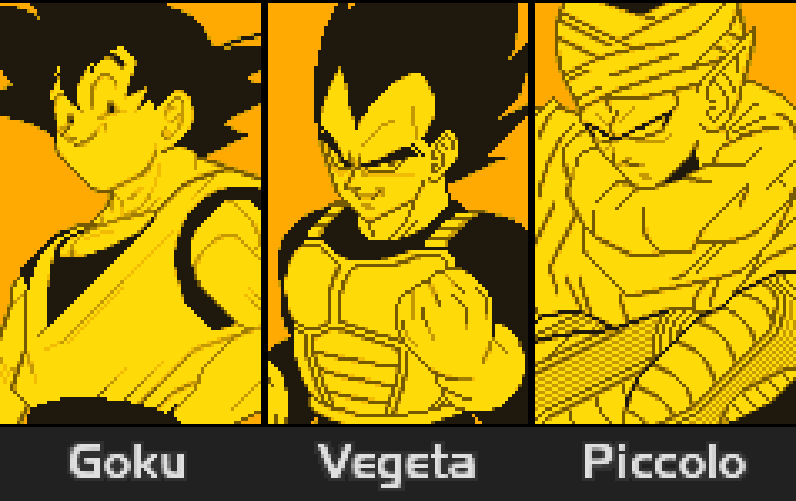
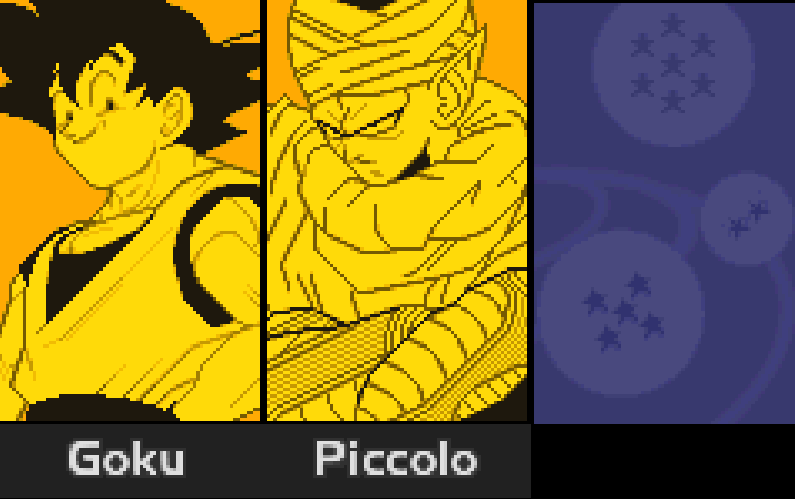
milieu de la 2e tier list

diff --git a/soluce/solution_z.html b/soluce/solution_z.html
@@ -315,42 +315,39 @@
 
     <h3 id="teams1">Liste d'équipes n°1: Avant le Mode Histoire</h3>
 
-    <p id="team1">La toute première équipe est composée de Goku, Vegeta et Piccolo.</p>
+    <p id="team1">La toute première équipe est composée de Goku et Piccolo.</p>
     <p>La raison du choix de l'équipe se repose sur plusieurs choses:</p>
     <li>Ce sont des personnages simples à jouer avec des attaques spéciales simples à comprendre et assez puissantes pour le début du jeu.</li>
     <li>Ce sont des personnages assez forts pour le tout début du jeu </li>
     <li>Chacun coûte 3 DP ce qui permet de respecter la règle des 7 DP maximum</li>
-    <li>Ils peuvent faire une attaque en trio qui est dévastateur pour 200 de ki</li>
+    <li>Ils peuvent faire une attaque en duo qui est dévastateur pour 200 de ki</li>
 
     <p>La stratégie a adopé avec cette équipe est la suivant:</p>
     <p>Jouez Goku pour commencer, ses attaques sont simples, puissantes et couvrent la longue portée avec le Kamehameha, la moyenne portée avec le Dragon Shot et la courte portée via le corps-à-corps.
       Egalement sa compétence "Kaioken" permet de frapper plus fort, ce qui permet de faire des dégâts considérables à des personnages à 4 ou 5 DP.
-    </p>
-    <p>Vous pourrez ensuite jouez Vegeta quand l'adversaire sera assez affaibli, Vegeta sera plus dans la finition et le combat rapproché via ses coups spéciaux comme son attaque spéciale haute qui est parfaite au corps-à-corps.
-      Son Garlick Gun et son attaque spéciale basse sont biens respectivement pour affaiblir les PV de l'adversaire et empêcher l'adversaire de trop bouger. Sa compétence "Conscience rivale" est plutôt intéressante dans le cas de figure où il est un personnage à 3 Dp seulement,
-      ce qui permet que dans les niveaux entrent 6 et 8, vous pourrez l'enclencher et frapper plus fort.
     </p>
     <p>Enfin Piccolo qui sera là en tant que "tank" grâce à sa régénération, sa compétence qui est vraiment excellente car il peut taper l'adversaire correctement avec ses spéciaux qui sont tous biens,
        pour la longue portée via le Makankosappo, la courte portée avec le Gekiretsukoudan et la moyenne portée qui en plus est à tête chercheuse, le Makankuuhouidan.
     </p>
       
     <p>En règle générale, vous pourrez jouer normalement, sans avoir à adopter de stratégie, mais lorsque l'adversaire en face sera trop puissant, 
-      faites en sorte de garder vos 3 personnages, puis de l'affaiblir à environ 60% de sa vie, grâce à du corps-à-corps en utilisant Goku ou Vegeta, puis de lui envoyer une attaque en trio,
+      faites en sorte de garder vos 2 personnages, puis de l'affaiblir à environ 60% de sa vie, grâce à du corps-à-corps en utilisant Goku ou Piccolo, puis de lui envoyer une attaque en duo,
       ce qui permettra de compenser la différence de puissance.
     </p>
 
     <div class="images-cote-a-cote">
         <figure>
           <img src="../image/soluce/soluce_z/team1.png" alt="Equipe n°1" style="width: 650px;">
-          <figcaption><strong>Equipe 1:Goku, Vegeta et Piccolo</strong></figcaption>
+          <figcaption><strong>Equipe 1:Goku et Piccolo</strong></figcaption>
         </figure>
     </div>
+    
 
     <br><p id="team2">L'équipe n°2 se compose des personnages suivants: Gotenks et C-18</p>
     <p>Les raisons pour cette équipe sont :</p>
-    <li>L'équipe est composé d'un personnage puissant et assez simple à jouer et d'un personnage un peu plus complexe à utiliser.</li>
+    <li>L'équipe est composé d'un personnage puissant et d'un personnage utilitaire et complet tous deux assez simples à jouer.</li>
     <li>Gotenks coûte 5 DP ce qui est assez fort comparé à des personnages comme Goku et Vegeta, ce qui permet de frapper et d'être plus forts que pas mal de personnages du début. </li>
-    <li>C-18 coûte 2 DP mais qui est assez forte pour faire des dégâts et rester durant le combat.</li>
+    <li>Krilin coûte 2 DP mais qui est assez fort pour faire des dégâts et gêné l'adversaire.</li>
     <li>Egalement la combinaison des deux permet de respecter la règle des 7 DP maximum.</li>
 
     <p>Pour la stratégie a adoptée, passons en revue les qualités des personnages et voyons ce que l'on peut faire avec :</p>
@@ -359,21 +356,21 @@
       , son beignet galactique est une charge vers l'adversaire, ce qui brise la garde et fait des dégâts intéressants et enfin son Fantôme Kamikaze qui couvre la moyenne et courte distance, fait de très bons dégâts et le fantôme peut poursuivre l'adversaire.
       Egalement il peut devenir Super Saiyan pour augmenter son attaque, ce qui permet de frapper bien plus fort ses ennemis.
     </p>
-    <p>C-18 est selon moi le personnage le plus fort à 2 DP lorsque que l'on commence le jeu, elle a des attaques spéciales intéressantes et surtout une excellente capacité qui permet de garder son énergie à 100 durant une bonne durée du combat,
-      ce qui permet d'enchaîner les attaques spéciales sans faire trop attention à son énergie. Pour ses attaques spéciales, elle sera spécialisée dans le combat rapproché via son attaque spéciale standart, qui malgré sa faible portée frappe fort.
-      Elle sera aussi forte pour gênée l'adversaire avec ses deux attaques spéciales hautes et basses qui malgré leurs dégâts moyens, empêcheront l'adversaire de se rapprocher
-      , d'ailleurs ces attaques spéciales sont des excellents moyens pour gérer la longue portée quand l'adversaire est en dessous ou au dessus, ce qui permet de le garder loin.
+    <p>Krilin sera le personnage entre la force et la technique, il est un peu comme Gotenks au niveau de ses qualités:
+      <br>Il a des attaques spéciales qui peuvent faire plusieurs choses intéressantes et couvrent toutes les portées: Son Kamehameha couvre la longue portée et fait des dégâts corrects
+      , son Kienzan est une sérié de disques d'énergie balancée sur l'adversaire, ce qui met la pression, fait des dégâts intéressants et couvre une très bonne portée vers le haut et légèrement sur les côtés et enfin son Sokidan qui couvre la moyenne et courte distance, fait de bons dégâts et la bouel d'énergie peut poursuivre l'adversaire, à l'instar du fantôme de Gotenks.
+      Egalement il peut également activé sa compétence "Véritable Pouvoir" pour augmenter son attaque, ce qui permet de frapper bien plus fort ses ennemis.
     </p>
       
     <p>Pour cette équipe, la stratégie sera bien plus tournée autour de Gotenks, en début de partie, essayez de jouer aggressif en utilisant la puissance de Gotenks jusqu'à que la plupart des ennemis tombent.
       Si Gotenks ne tape pas suffisamment fort, transformez le en Super Saiyan, puis n'hésitez pas à user du Fantôme Kamikaze qui est vraiment redoutable.
-      Pour que C-18 soit utilisée efficacement, chargez avec Gotenks votre ki à 200, puis échanger avec C-18, mettez un coup envoyant l'ennemi plus loin. Après avoir activée votre compétence, 
-      vous pouvez enchaîner les spéciaux ou même les attaques énergétiques afin de briser la garde de l'ennemi et de simplement le vaincre sur la durée.
+      Pour Krilin, on partira sur la même base que Piccolo, seulement ne soyez pas trop agressif et utilisez le Kienzan plus souvent que le Sokidan, cela fera plus de dégâts et pourra faire reculer l'adversaire.
+      Autrement avec Krilin, le but sera de temporiser et de mettre des dégâts résiduels sur l'ennemi en attendant de trouver le bon moyen de remettre Gotenks, ou bien de simplement finir le travail si Gotenks est KO.
     </p>
     <div class="images-cote-a-cote">
         <figure>
           <img src="../image/soluce/soluce_z/team2.png" alt="Equipe n°2" style="width: 650px;">
-          <figcaption><strong>Equipe 2:Gotenks et C-18</strong></figcaption>
+          <figcaption><strong>Equipe 2:Gotenks et Krilin</strong></figcaption>
         </figure>
     </div>
 
@@ -503,7 +500,36 @@
     </div>
 
 
+    <br><p id="team5.5">L'équipe suivante se compose des personnages suivants: Gotenks et C-18</p>
+    <p>Les raisons pour cette équipe sont :</p>
+    <li>L'équipe est composé d'un personnage puissant et assez simple à jouer et d'un personnage un peu plus complexe à utiliser.</li>
+    <li>Gotenks coûte 5 DP ce qui est assez fort comparé à des personnages comme Goku et Vegeta, ce qui permet de frapper et d'être plus forts que pas mal de personnages du début. </li>
+    <li>C-18 coûte 2 DP mais qui est assez forte pour faire des dégâts et rester durant le combat.</li>
+    <li>Egalement la combinaison des deux permet de respecter la règle des 7 DP maximum.</li>
 
+    <p>Pour la stratégie a adoptée, passons en revue les qualités des personnages et voyons ce que l'on peut faire avec :</p>
+    <p>Gotenks sera la force de frappe majeure de l'équipe, il a un arsenal parfait pour affronter les autres personnages:
+      <br>Il a des attaques spéciales qui peuvent faire plusieurs choses intéressantes et couvrent toutes les portées: Son Canon V couvre la longue portée et fait d'excellents dégâts
+      , son beignet galactique est une charge vers l'adversaire, ce qui brise la garde et fait des dégâts intéressants et enfin son Fantôme Kamikaze qui couvre la moyenne et courte distance, fait de très bons dégâts et le fantôme peut poursuivre l'adversaire.
+      Egalement il peut devenir Super Saiyan pour augmenter son attaque, ce qui permet de frapper bien plus fort ses ennemis.
+    </p>
+    <p>C-18 est selon moi le personnage le plus fort à 2 DP lorsque que l'on commence le jeu, elle a des attaques spéciales intéressantes et surtout une excellente capacité qui permet de garder son énergie à 100 durant une bonne durée du combat,
+      ce qui permet d'enchaîner les attaques spéciales sans faire trop attention à son énergie. Pour ses attaques spéciales, elle sera spécialisée dans le combat rapproché via son attaque spéciale standart, qui malgré sa faible portée frappe fort.
+      Elle sera aussi forte pour gênée l'adversaire avec ses deux attaques spéciales hautes et basses qui malgré leurs dégâts moyens, empêcheront l'adversaire de se rapprocher
+      , d'ailleurs ces attaques spéciales sont des excellents moyens pour gérer la longue portée quand l'adversaire est en dessous ou au dessus, ce qui permet de le garder loin.
+    </p>
+      
+    <p>Pour cette équipe, la stratégie sera bien plus tournée autour de Gotenks, en début de partie, essayez de jouer aggressif en utilisant la puissance de Gotenks jusqu'à que la plupart des ennemis tombent.
+      Si Gotenks ne tape pas suffisamment fort, transformez le en Super Saiyan, puis n'hésitez pas à user du Fantôme Kamikaze qui est vraiment redoutable.
+      Pour que C-18 soit utilisée efficacement, chargez avec Gotenks votre ki à 200, puis échanger avec C-18, mettez un coup envoyant l'ennemi plus loin. Après avoir activée votre compétence, 
+      vous pouvez enchaîner les spéciaux ou même les attaques énergétiques afin de briser la garde de l'ennemi et de simplement le vaincre sur la durée.
+    </p>
+    <div class="images-cote-a-cote">
+        <figure>
+          <img src="../image/soluce/soluce_z/team2.png" alt="Equipe n°2" style="width: 650px;">
+          <figcaption><strong>Equipe 5.5:Gotenks et C-18</strong></figcaption>
+        </figure>
+    </div>
 
 
     <br><p id="team6">On continue avec l'équipe n°6 qui est basée sur Metal Cooler mais qui aura deux variantes:</p>

diff --git a/soluce/solution_max.html b/soluce/solution_max.html
@@ -283,6 +283,7 @@
       <div style="margin-left: 20px;">
         <a href="#teams2">• Liste d'équipes n°2: Les Equipes pour 9 DP</a><!--(en sachant que c'est le début du jeu)Mettre la version au début et en fin de jeu-->
             <div style="margin-left: 20px;">
+              <a href="#team2-0">• Equipe n°0</a>
               <a href="#team2-1">• Equipe n°1</a>
               <a href="#team2-2">• Equipe n°2</a>
               <a href="#team2-3">• Equipe n°3</a>
@@ -695,6 +696,43 @@
 
 
     <h3 id="teams2">Liste d'équipes n°2: Les Equipes pour 9 DP</h3>
+
+    <br><p id="team2-0">Cette équipe est la plus simpliste à faire mais elle est efficace, elle est composée de Goku, Vegeta et Piccolo.</p>
+    <p>La raison du choix de l'équipe se repose sur plusieurs choses:</p>
+    <li>Ce sont des personnages simples à jouer avec des attaques spéciales simples à comprendre et assez puissantes pour le début du jeu.</li>
+    <li>Ce sont des personnages assez forts pour le tout début du jeu </li>
+    <li>Chacun coûte 3 DP ce qui permet de respecter la règle des 7 DP maximum</li>
+    <li>Ils peuvent faire une attaque en trio qui est dévastateur pour 200 de ki</li>
+
+    <p>La stratégie a adoptée avec cette équipe est la suivant:</p>
+    <p>Jouez Goku pour commencer, ses attaques sont simples, puissantes et couvrent la longue portée avec le Kamehameha, la moyenne portée avec le Dragon Shot et la courte portée via le corps-à-corps.
+      Egalement sa compétence "Kaioken" permet de frapper plus fort, ce qui permet de faire des dégâts considérables à des personnages à 4 ou 5 DP.
+    </p>
+    <p>Vous pourrez ensuite jouez Vegeta quand l'adversaire sera assez affaibli, Vegeta sera plus dans la finition et le combat rapproché via ses coups spéciaux comme son attaque spéciale haute qui est parfaite au corps-à-corps.
+      Son Garlick Gun et son attaque spéciale basse sont biens respectivement pour affaiblir les PV de l'adversaire et empêcher l'adversaire de trop bouger. Sa compétence "Conscience rivale" est plutôt intéressante dans le cas de figure où il est un personnage à 3 Dp seulement,
+      ce qui permet que dans les niveaux entrent 6 et 8, vous pourrez l'enclencher et frapper plus fort.
+    </p>
+    <p>Enfin Piccolo qui sera là en tant que "tank" grâce à sa régénération, sa compétence qui est vraiment excellente car il peut taper l'adversaire correctement avec ses spéciaux qui sont tous biens,
+       pour la longue portée via le Makankosappo, la courte portée avec le Gekiretsukoudan et la moyenne portée qui en plus est à tête chercheuse, le Makankuuhouidan.
+    </p>
+      
+    <p>En règle générale, vous pourrez jouer normalement, sans avoir à adopter de stratégie, mais lorsque l'adversaire en face sera trop puissant, 
+      faites en sorte de garder vos 3 personnages, puis de l'affaiblir à environ 60% de sa vie, grâce à du corps-à-corps en utilisant Goku ou Vegeta, puis de lui envoyer une attaque en trio,
+      ce qui permettra de compenser la différence de puissance.
+    </p>
+
+    <br><h4>Difficulté: 
+      <li>10/20</li>
+      <li>Passe le niveau Facile et Difficile au minimum sans trop de difficultés</li>
+      <li>Pourra trouver des soucis au milieu du niveau Mania</li> 
+    </h4>
+
+    <div class="images-cote-a-cote">
+        <figure>
+          <img src="../image/soluce/soluce_max/team2/team0.png" alt="Equipe n°1" style="width: 650px;">
+          <figcaption><strong>Equipe 0:Goku, Vegeta et Piccolo</strong></figcaption>
+        </figure>
+    </div>
 
     <br><p id="team2-1">On commence avec les équipes ayant comme maximum 9DP avec l'équipe n°1 composée de Metal Cooler et Mecha Freezer</p>
 
@@ -1430,7 +1468,7 @@
       Trunks peut simplement se booster en attaque et frapper plus fort.
     </p>
 
-    <p>La stratégie a adopée est la suivante: Garder Vegeta en vie et à utiliser ce dernier à la toute fin.</p>
+    <p>La stratégie a adoptée est la suivante: Garder Vegeta en vie et à utiliser ce dernier à la toute fin.</p>
     <p>Lors du combat, commencez avec Son Goku et n'hésitez pas à envoyez vos spéciaux et votre attaque en duo, 
       continuez jusqu'à que Goku soit Ko ou bien directement après qu'il ait utilisé son attaque ultime, changez sur Trunks.
       Faites à peu près la même chose qu'avec Goku et essayez de gagner le combat, autrement Vegeta se chargera du reste.
@@ -1494,7 +1532,7 @@
         il frappe beaucoup plus fort, ce qui littéralement mettre KO après quelques coups, n'importe quel personnage non boss du jeu.
     </p>
 
-    <p>La stratégie a adopée est différente de la précédente: 
+    <p>La stratégie a adoptée est différente de la précédente: 
       Garder si possible Broly en dernier et faites en sorte que Goku et Vegeta battent un maximum d'ennemis.</p>
     <p>Lors du combat, commencez avec Son Goku et n'hésitez pas à envoyez vos spéciaux et votre attaque en duo, 
       continuez jusqu'à que Goku soit Ko ou bien directement après qu'il ait utilisé son attaque ultime, changez sur Vegeta.

diff --git a/presentation.html b/presentation.html
@@ -329,7 +329,20 @@
       <h2 id="persos">Personnages</h2>
       <p>Pour les personnages, à la grande différence de son prédécesseur, il y a bien plus de personnages dont ceux déjà vu dans le premier jeu, mais décliner sous plusieurs formes, comme Trunks ou Gohan qui possède une forme de base, ou bien même Cell 2e forme qui apparait
         aussi on peut faire appel à des personnages supports pour nous aider lors du combat, avec des effets différents</p>
+      
+      <p>Voici la sélection de personnages au tout début du jeu, on ne peut jouer que les héros de base:</p>
+        <div class="images-cote-a-cote">
+        <figure>
+          <img src="image/character_debut.png" alt="Personnages jouables" style="width: 520px;">
+          <figcaption><strong>Personnages jouables</strong></figcaption>
+        </figure>
+        <figure>
+          <img src="image/character_debut2.png" alt="Les autres personnages jouables" style="width: 500px;">
+          <figcaption><strong>Les autres personnages jouables</strong></figcaption>
+        </figure>
+      </div>
 
+      <br><p>Et ici on a l'intégralité des personnages débloqués avec les personnages de soutien:</p>
         <div class="images-cote-a-cote">
         <figure>
           <img src="image/personnage.png" alt="Personnages jouables" style="width: 500px;">

diff --git a/tierlist_support.html b/tierlist_support.html
@@ -367,7 +367,11 @@
     <p></p>
 
     <br><h4>Neko Majin Z</h4>
-    <p></p>
+    <p>Etant uniquement sur la version japonaise du jeu et en plus très bien caché, Neko Majin Z n'est pas le personnage le plus vu
+    et le plus facile à étudier, mais le fait qu'il fasse un Kamehameha de la taille d'un Goku Super Saiyan et qu'il puisse faire d'excellents 
+    dégâts, nous montre qu'il se montre efficace pour surprendre un adversaire en plein combat, seulement son Kamehameha comme tout attaque
+    peut être bloquée via la garde, mais n'empêche que ses dégâts ne sont en aucun cas ridicule face à ceux de Mr Satan.
+    </p>
 
     <h3 id="b">Tier B</h3>
     <div class="images-cote-a-cote-full">
